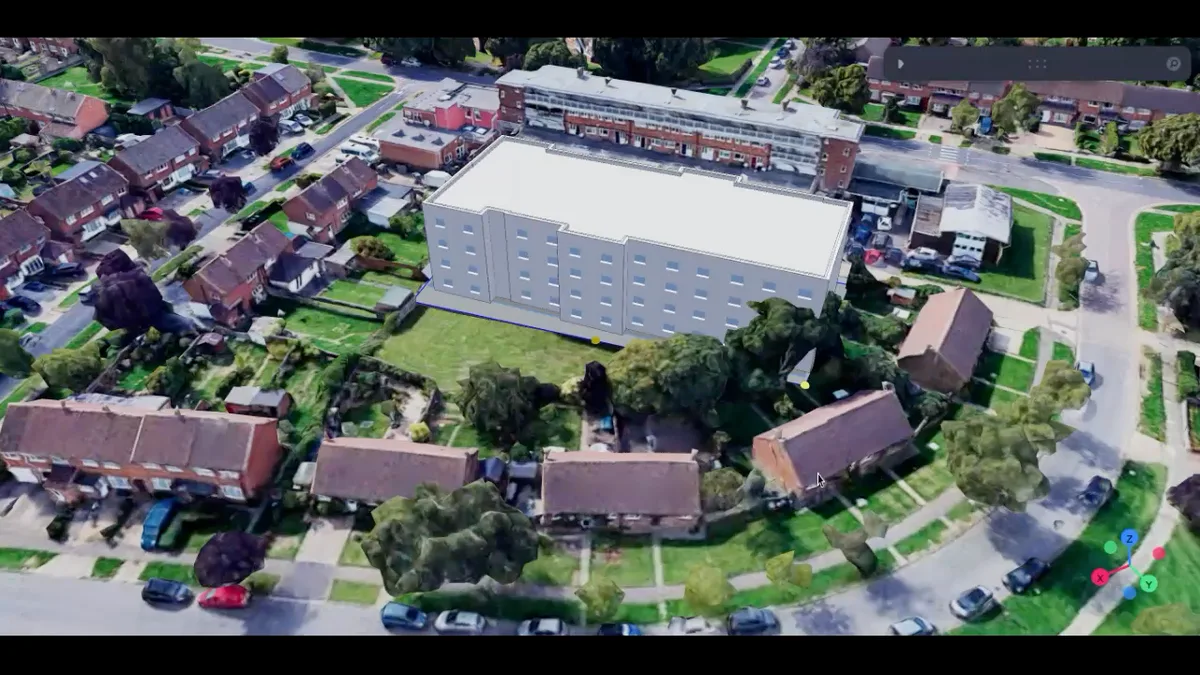
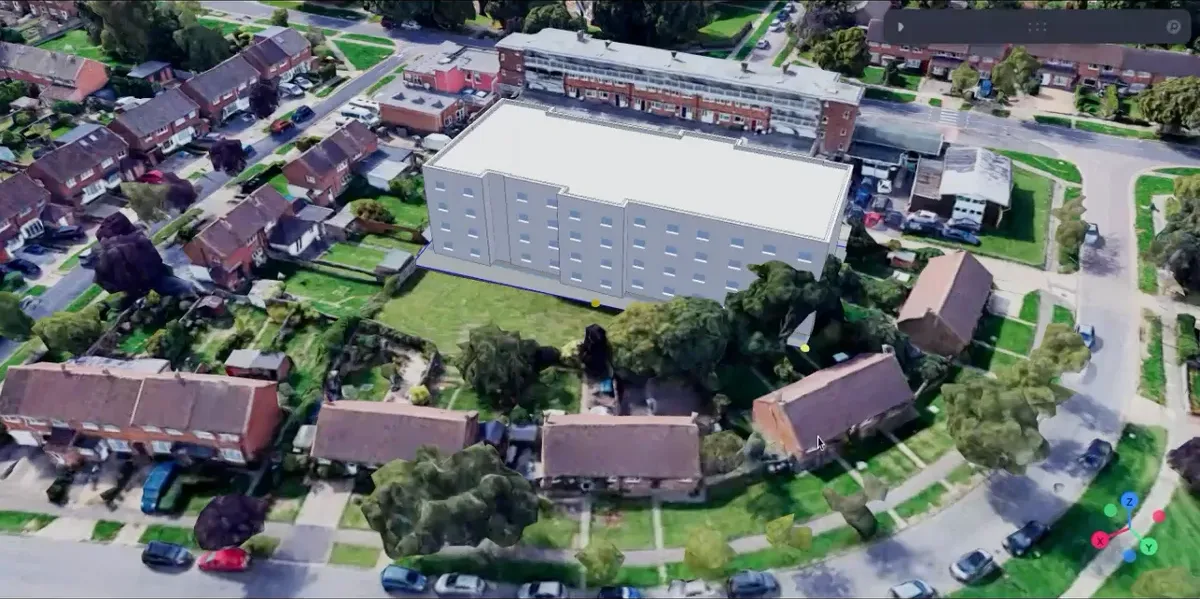
Research cards: Industry Projects, DyNAMO, Vial Sort, AI Team Projects
Industry Projects leads the section, followed by DyNAMO, Vial Sort and
AI Team Projects. The two paper cards are gone, and with them the
paper-figure layout and external-link branch, since every card is an
internal page again.

ai-bim.webp carried black letterbox bars (37 px top, 39 px bottom),
which showed on the card and on the /tuc/industry-projects tile. It is
cropped to 1200x599 from the original, at about the original file
size.

diff --git a/src/pages/Home.jsx b/src/pages/Home.jsx
@@ -10,7 +10,6 @@ import PublicationMiniCarousel from '../components/publications/PublicationMiniC
 import { getNetworkMembers, institutions } from '../data/team'
 import { cognitiveProjects } from '../data/demonstrations'
 import { newsByDate } from '../data/news'
-import { publications } from '../data/publications'
 import assetUrl from '../utils/assetUrl'
 import { useLanguage } from '../i18n/useLanguage'
 
@@ -22,36 +21,28 @@ const txt = (pick, pair) => pick(pair[1], pair[0])
 const eyebrow = 'mb-3 text-xs font-bold uppercase tracking-[0.22em] text-primary-700'
 const sectionTitle = 'font-heading text-3xl font-bold leading-tight tracking-tight text-slate-950 md:text-4xl'
 
-// Research highlights: the page each card opens, its photo and a one-line
-// summary. `to` stays on this site, `href` opens a paper in a new tab.
-// `figure`: the image is a paper figure (white diagram), shown whole on white
-// above the text instead of as a darkened full-bleed photo.
-// One robotics card only (DyNAMO). The two paper cards read their link and
-// figure from publications.json, so a new arXiv/venue URL follows.
-const dynamo = cognitiveProjects.find((p) => p.id === 'dynamo')
-const paper = (id) => publications.find((p) => p.id === id)
-const conceptsInMotion = paper('knab2026concepts')
-const barista = paper('knab2026barista')
+// Research highlights, in display order: the page each card opens, its photo
+// and a one-line summary. Titles and links of the robotics cards come from the
+// project data so a rename follows.
+const project = (id) => cognitiveProjects.find((p) => p.id === id)
 const highlights = [
   {
-    title: [dynamo.title, dynamo.title],
-    to: dynamo.link,
+    title: ['Industrieprojekte', 'Industry Projects'],
+    to: '/tuc/industry-projects',
+    image: '/images/projects/industry/ai-bim.webp',
+    summary: ['Angewandte KI mit Partnern aus Bau, Gesundheit und Handel', 'Applied AI with partners in construction, healthcare and retail'],
+  },
+  {
+    title: [project('dynamo').title, project('dynamo').title],
+    to: project('dynamo').link,
     image: '/images/projects/dynamo/hero.webp',
     summary: ['Dynamische Manipulation für kognitive Roboter', 'Dynamic manipulation for cognitive robots'],
   },
   {
-    title: ['Erklärbare KI', 'Explainable AI'],
-    href: conceptsInMotion.url,
-    image: conceptsInMotion.image,
-    figure: true,
-    summary: ['Concepts in Motion: nachvollziehbare Videoklassifikation', 'Concepts in Motion: interpretable video classification'],
-  },
-  {
-    title: ['Egozentrisches Sehen', 'Egocentric vision'],
-    href: barista.url,
-    image: barista.image,
-    figure: true,
-    summary: ['BARISTA: Benchmark für egozentrisches Videoverstehen', 'BARISTA: a benchmark for egocentric video understanding'],
+    title: [project('vial-sort').title, project('vial-sort').title],
+    to: project('vial-sort').link,
+    image: '/images/projects/vial-sort/hero.webp',
+    summary: ['Sprachgesteuertes Sortieren mit einer VLA-Policy', 'Language-conditioned sorting with a VLA policy'],
   },
   {
     title: ['AI-Team-Projekte', 'AI Team Projects'],
@@ -236,54 +227,30 @@ const Home = () => {
             </div>
           </div>
           <div className="grid grid-cols-2 gap-3 sm:gap-5 lg:grid-cols-4">
-            {highlights.map((item) => {
-              const className =
-                'group relative flex aspect-[3/4] flex-col justify-end overflow-hidden rounded-2xl bg-slate-900 shadow-sm transition duration-300 hover:-translate-y-0.5 hover:shadow-[0_24px_60px_-28px_rgb(var(--primary-700)/0.55)]'
-              const content = item.figure ? (
-                <>
-                  <div className="flex min-h-0 flex-1 items-center justify-center bg-white p-3">
-                    <img
-                      src={assetUrl(item.image)}
-                      alt=""
-                      loading="lazy"
-                      decoding="async"
-                      className="max-h-full max-w-full object-contain transition-transform duration-700 ease-out group-hover:scale-[1.04]"
-                    />
-                  </div>
-                  <div className="relative shrink-0 p-3 text-white sm:p-5">
-                    <h3 className="flex items-center justify-between gap-2 font-heading text-base font-bold leading-tight sm:text-xl">
-                      {txt(pick, item.title)}
-                      <FaArrowRight className="h-3.5 w-3.5 shrink-0 -rotate-45 transition group-hover:rotate-0" aria-hidden="true" />
-                    </h3>
-                    <p className="mt-1 text-xs leading-4 text-slate-300 sm:text-sm sm:leading-5">{txt(pick, item.summary)}</p>
-                  </div>
-                </>
-              ) : (
-                <>
-                  <img
-                    src={assetUrl(item.image)}
-                    alt=""
-                    loading="lazy"
-                    decoding="async"
-                    style={item.focus ? { objectPosition: item.focus } : undefined}
-                    className="absolute inset-0 h-full w-full object-cover transition-transform duration-700 ease-out group-hover:scale-[1.05]"
-                  />
-                  <div className="absolute inset-0 bg-gradient-to-t from-slate-950/90 via-slate-950/30 to-transparent" />
-                  <div className="relative p-3 text-white sm:p-5">
-                    <h3 className="flex items-center justify-between gap-2 font-heading text-base font-bold leading-tight sm:text-xl">
-                      {txt(pick, item.title)}
-                      <FaArrowRight className="h-3.5 w-3.5 shrink-0 -rotate-45 transition group-hover:rotate-0" aria-hidden="true" />
-                    </h3>
-                    <p className="mt-1 text-xs leading-4 text-slate-200 sm:text-sm sm:leading-5">{txt(pick, item.summary)}</p>
-                  </div>
-                </>
-              )
-              return item.to ? (
-                <Link key={item.to} to={item.to} className={className}>{content}</Link>
-              ) : (
-                <a key={item.href} href={item.href} target="_blank" rel="noopener noreferrer" className={className}>{content}</a>
-              )
-            })}
+            {highlights.map((item) => (
+              <Link
+                key={item.to}
+                to={item.to}
+                className="group relative flex aspect-[3/4] flex-col justify-end overflow-hidden rounded-2xl bg-slate-900 shadow-sm transition duration-300 hover:-translate-y-0.5 hover:shadow-[0_24px_60px_-28px_rgb(var(--primary-700)/0.55)]"
+              >
+                <img
+                  src={assetUrl(item.image)}
+                  alt=""
+                  loading="lazy"
+                  decoding="async"
+                  style={item.focus ? { objectPosition: item.focus } : undefined}
+                  className="absolute inset-0 h-full w-full object-cover transition-transform duration-700 ease-out group-hover:scale-[1.05]"
+                />
+                <div className="absolute inset-0 bg-gradient-to-t from-slate-950/90 via-slate-950/30 to-transparent" />
+                <div className="relative p-3 text-white sm:p-5">
+                  <h3 className="flex items-center justify-between gap-2 font-heading text-base font-bold leading-tight sm:text-xl">
+                    {txt(pick, item.title)}
+                    <FaArrowRight className="h-3.5 w-3.5 shrink-0 -rotate-45 transition group-hover:rotate-0" aria-hidden="true" />
+                  </h3>
+                  <p className="mt-1 text-xs leading-4 text-slate-200 sm:text-sm sm:leading-5">{txt(pick, item.summary)}</p>
+                </div>
+              </Link>
+            ))}
           </div>
         </div>
       </section>
